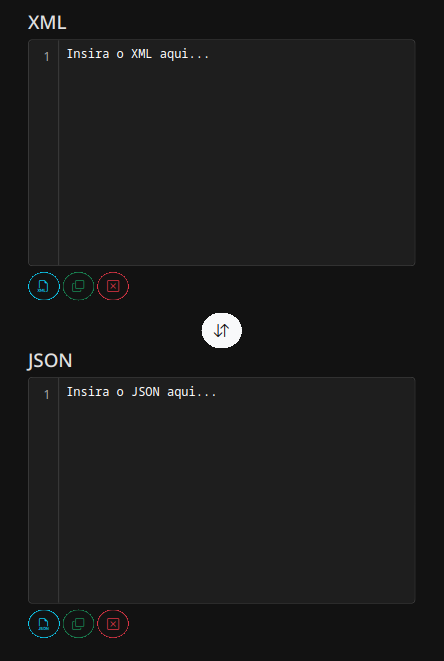
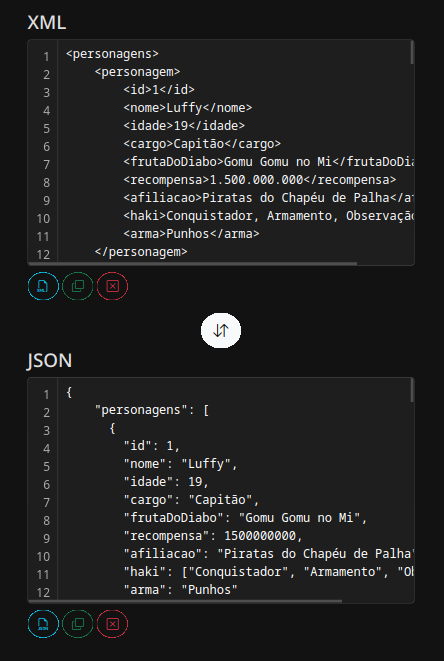
feat: função para carregar exemplos de arquivos (xml e/ou json)

diff --git a/src/js/script.js b/src/js/script.js
@@ -2,6 +2,7 @@
 document.addEventListener('DOMContentLoaded', () => {
     
     //#region Atualiza números de linhas
+
         const jsonInput = document.getElementById('jsonInput');
         const jsonLineNumbers = document.getElementById('jsonLineNumbers');
 
@@ -22,6 +23,36 @@ document.addEventListener('DOMContentLoaded', () => {
         }
     //#endregion Atualiza números de linhas
 
-    //#region 
-    //#endregion
+    //#region Função para carregar exemplos de arquivos (xml e json)
+
+        // Botões de exemplo
+        document.getElementById('jsonExample').addEventListener('click', () => {
+            loadExample('/src/data/example.json', (data) => {
+                jsonInput.value = data;
+                updateLineNumbers(jsonInput, jsonLineNumbers);
+            });
+        });
+
+        document.getElementById('xmlExample').addEventListener('click', () => {
+            loadExample('/src/data/example.xml', (data) => {
+                xmlInput.value = data;
+                updateLineNumbers(xmlInput, xmlLineNumbers);
+            });
+        });
+
+
+        function loadExample(file, callback) {
+            fetch(file)
+                .then(response => {
+                    if (!response.ok) {
+                        throw new Error('Erro ao encontrar o arquivo');
+                    }
+                    return response.text();
+                })
+                .then(data => callback(data))
+                .catch(error => alert('Erro ao carregar o exemplo: ' + error));
+        }
+
+    //#endregion Função para carregar exemplos de arquivos (xml e json)
+
 })
